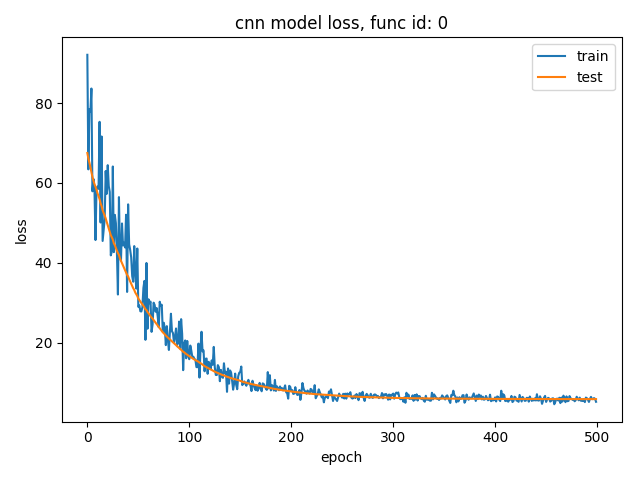
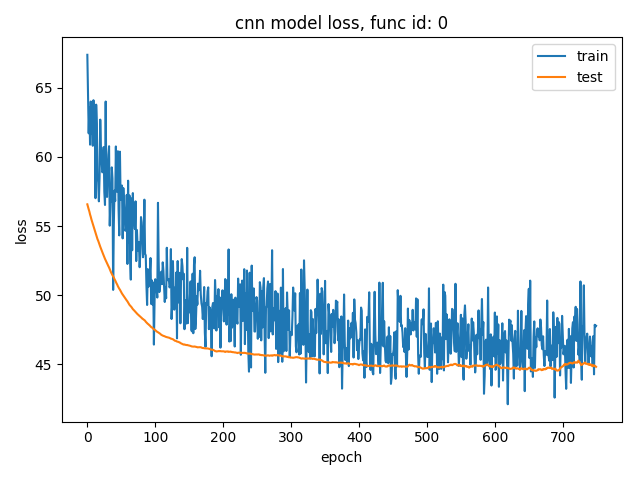
clean

diff --git a/covnet/mnist_learn.py b/covnet/mnist_learn.py
@@ -12,16 +12,9 @@ from sklearn.decomposition import PCA
 from sklearn.preprocessing import scale
 
 
-#
-# def evalute_model(x_test, y_test, model, flatten=False):
-#     if flatten:
-#         x_test = flatten_x(x_test)
-#     score = model.evaluate(x_test, y_test, batch_size=128, verbose=1)
-#     return score
-
 def plot_models(model_logs, model_names, title, only_val=True):
     val_name = "_validation"
-    if only_val == False:
+    if not only_val:
         legend = [item for subset in [[name, name + val_name] for name in model_names] for item in subset]
     else:
         legend = [name + val_name for name in model_names]
@@ -30,7 +23,7 @@ def plot_models(model_logs, model_names, title, only_val=True):
     plt.subplot(2, 1, 1)
     for i in range(len(model_logs)):
         log = model_logs[i]
-        if only_val == False:
+        if not only_val:
             plt.plot(log.history['acc'])
         plt.plot(log.history['val_acc'])
     plt.title('accuracy')
@@ -49,31 +42,8 @@ def plot_models(model_logs, model_names, title, only_val=True):
     plt.ylabel('loss')
     plt.xlabel('epoch')
     plt.legend(legend)
-    # plt.title(title + " loss")
-    plt.savefig(("plots2/" + str(title) + str(model_names[i])).replace(' ', '_').replace("0.", ""))
+    plt.savefig(("plots/" + str(title) + str(model_names[i])).replace(' ', '_').replace("0.", ""))
     plt.tight_layout()
-    # plt.show()
-
-
-# def plot_model(model_log, model_name):
-#     plt.figure()
-#     plt.subplot(2, 1, 1)
-#     plt.plot(model_log.history['acc'])
-#     plt.plot(model_log.history['val_acc'])
-#     plt.title(model_name + ' accuracy')
-#     plt.ylabel('accuracy')
-#     plt.xlabel('epoch')
-#     plt.legend(['train', 'test'])
-#
-#     plt.subplot(2, 1, 2)
-#     plt.plot(model_log.history['loss'])
-#     plt.plot(model_log.history['val_loss'])
-#     plt.title(model_name + 'loss')
-#     plt.ylabel('loss')
-#     plt.xlabel('epoch')
-#     plt.legend(['train', 'test'], loc='upper right')
-#     plt.tight_layout()
-#     plt.show()
 
 
 def train_model(x_train, y_train, x_test, y_test, model, opt=Adadelta()):
@@ -84,51 +54,11 @@ def train_model(x_train, y_train, x_test, y_test, model, opt=Adadelta()):
     model_log = model.fit(x_train, y_train, epochs=20, batch_size=1024, verbose=2,
                           validation_data=(x_test, y_test))
 
-    # plot_model(model_log, model_name)
     return model, model_log
 
 
 def flatten_x(X):
     return X.reshape(X.shape[0], X.shape[1] * X.shape[2])
-
-
-# def multi_train_multi_layer_linear_model(x_train, y_train, x_test, y_test, classes):
-#     num_classes = len(classes)
-#     x_train = flatten_x(x_train)
-#     x_test = flatten_x(x_test)
-#
-#     models = [
-#         Sequential(
-#             [Dense(256, input_shape=(x_train.shape[1],)), Activation('softmax'),
-#              Dense(16), Activation('softmax'),
-#              Dense(num_classes), Activation('softmax')]),
-#
-#         Sequential(
-#             [Dense(256, input_shape=(x_train.shape[1],)), Activation('softmax'),
-#              Dense(32), Activation('softmax'),
-#              Dense(num_classes), Activation('softmax')]),
-#
-#         # .49 after 20
-#         Sequential(
-#             [Dense(256, input_shape=(x_train.shape[1],)), Activation('softmax'),
-#              Dense(64), Activation('softmax'),
-#              Dense(num_classes), Activation('softmax')]),
-#
-#         # .466 after 20 epochs
-#         Sequential(
-#             [Dense(256, input_shape=(x_train.shape[1],)), Activation('softmax'),
-#              Dense(64), Activation('softmax'),
-#              Dense(64), Activation('softmax'),
-#              Dense(64), Activation('softmax'),
-#              Dense(num_classes), Activation('softmax')]),
-#     ]
-#
-#     logs = []
-#     for i in range(len(models)):
-#         _, log = train_model(x_train, y_train, x_test, y_test, models[i], opt=SGD(lr=0.001))
-#         logs.append(log)
-#
-#         plot_models([log], ["mlp num: " + str(i)], 'Compare between mlp models ' + str(i), False)
 
 
 def train_multi_layer_linear_model(x_train, y_train, x_test, y_test, num_classes, opt):
@@ -145,8 +75,6 @@ def train_linear_model(x_train, y_train, x_test, y_test, num_classes, opt):
     x_train = flatten_x(x_train)
     x_test = flatten_x(x_test)
     model = Sequential([
-        # Dense(256, input_shape=(x_train.shape[1],)),
-        # Activation('softmax'),
         Dense(num_classes),
         Activation('softmax'),
     ])
@@ -154,7 +82,7 @@ def train_linear_model(x_train, y_train, x_test, y_test, num_classes, opt):
     return train_model(x_train, y_train, x_test, y_test, model, opt=opt)
 
 
-def train_covnet(x_train, y_train, x_test, y_test, num_classes, opt=SGD(lr=0.1)):
+def train_covnet(x_train, y_train, x_test, y_test, num_classes, opt):
     x_train = np.expand_dims(x_train, axis=3)
     x_test = np.expand_dims(x_test, axis=3)
     model = Sequential()
@@ -187,11 +115,10 @@ def compare_models(x_train, y_train, x_test, y_test, classes, from_pickle=True):
                      }, open("models.pickle", "wb"))
 
     plot_models([linear_log, mlp_log, covnet_log], ['linear', 'mlp', 'covnet'], 'Compare between models', True)
-    # plot_models([linear_log, mlp_log], ['linear', 'mlp'], 'Compare between models', False)
 
 
 def hyper_parameter_covnet(x_train, y_train, x_test, y_test, classes, from_pickle=True):
-    lrs = [10**-10, 10**-5, 10**-3, 10**-2]
+    lrs = [10 ** -10, 10 ** -5, 10 ** -3, 10 ** -2]
     models = []
     logs = []
     legend = []
@@ -211,7 +138,7 @@ def hyper_parameter_covnet(x_train, y_train, x_test, y_test, classes, from_pickl
         pickle.dump({str(legend[i]): {'log': logs[i], 'model': models[i]} for i in range(len(legend))},
                     open("covnet_hyperparameter.pickle", "wb"))
 
-    plot_models(logs, legend, 'Covnet hyperparameter - learning rate', True)
+    plot_models(logs, legend, 'Covnet_hyperparameter_learning rate', True)
 
 
 def plot_decode_encode(encoder, autoencoder, x_test):
@@ -260,8 +187,6 @@ def pca_loss(x_train, x_test):
 
 
 def train_autoencoder(x_train, x_test):
-    # x_train = flatten_x(x_train)
-    # x_test = flatten_x(x_test)
     autoencoder = Sequential()
     activation = 'relu'
     autoencoder.add(Dense(512, activation=activation, input_shape=(784,)))
@@ -312,16 +237,10 @@ if __name__ == "__main__":
     hyperparameter_pickle = True
     classes = np.unique(y_train)
 
-    # autoencoder(x_train, y_train, x_test, y_test)
+    autoencoder(x_train, y_train, x_test, y_test)
 
     y_train = keras_utils.to_categorical(y_train, len(classes))
     y_test = keras_utils.to_categorical(y_test, len(classes))
 
-    # plot_decode_encode(load_model("models/encoder.pickle"), load_model("models/autoencoder.pickle"),
-    #                    np.expand_dims(x_test, axis=3))
-    # multi_train_multi_layer_linear_model(x_train, y_train, x_test, y_test, classes)
-    # compare_models(x_train, y_train, x_test, y_test, classes, compare_models_pickle)
+    compare_models(x_train, y_train, x_test, y_test, classes, compare_models_pickle)
     hyper_parameter_covnet(x_train, y_train, x_test, y_test, classes, hyperparameter_pickle)
-
-    # covnet_score = evalute_model(x_test, y_test, covnet_model)
-    # print('covnet_score ', covnplot_modelet_score)

diff --git a/covnet/Toy Convnet.py b/covnet/Toy Convnet.py
@@ -24,8 +24,6 @@ def l2_loss(y_hat, y, lamb, wights):
     return np.mean(np.square(y_hat - y) + reg_term)
 
 
-# (np.reshape(np.array(test_fwd['p']),(len(Y[func_id]['test']),)) - Y[func_id]['test']) ** 2) += lamb * np.linalg.norm(models[func_id]['w1']) \
-#                         + lamb * np.linalg.norm(models[func_id
 
 def learn_linear(X, Y, batch_size, lamb, iterations, learning_rate):
     """
@@ -185,10 +183,10 @@ def learn_cnn(X, Y, batch_size, lamb, iterations, learning_rate):
 
 def plot_loss(training_log, test_loss, title, only_test=True):
     i = 0
+    plt.figure()
     for k in test_loss:
         fig_title = title + ' loss, func id: ' + str(k)
         legend = []
-        # plt.subplot(3, 1, i + 1)
         if not only_test:
             plt.plot(training_log[k])
             legend.append('train')
@@ -202,8 +200,8 @@ def plot_loss(training_log, test_loss, title, only_test=True):
 
         # plt.title(title + " loss")
         plt.tight_layout()
-        # plt.savefig("plots/" + fig_title.replace(" ", "_"), )
         plt.show()
+        plt.savefig("plots/" + fig_title.replace(" ", "_"), )
 
 
 if __name__ == '__main__':
@@ -217,8 +215,8 @@ if __name__ == '__main__':
                 1 + np.random.randn(X['test'].shape[0]) * .01)}
         for i in range(len(y))}
 
-    # w, training_loss, test_loss = learn_linear(X, Y, 50, 0.6, 500, 0.001)
-    # plot_loss(training_loss, test_loss, 'linear model', False)
+    w, training_loss, test_loss = learn_linear(X, Y, 1024, 0.5, 750, 10**-3)
+    plot_loss(training_loss, test_loss, 'linear model', False)
 
-    w, training_loss, test_loss = learn_cnn(X, Y, 32, 0.5, 500, 0.0001)
+    w, training_loss, test_loss = learn_cnn(X, Y, 1024, 0.5, 750, 10**-5)
     plot_loss(training_loss, test_loss, 'cnn model', False)
